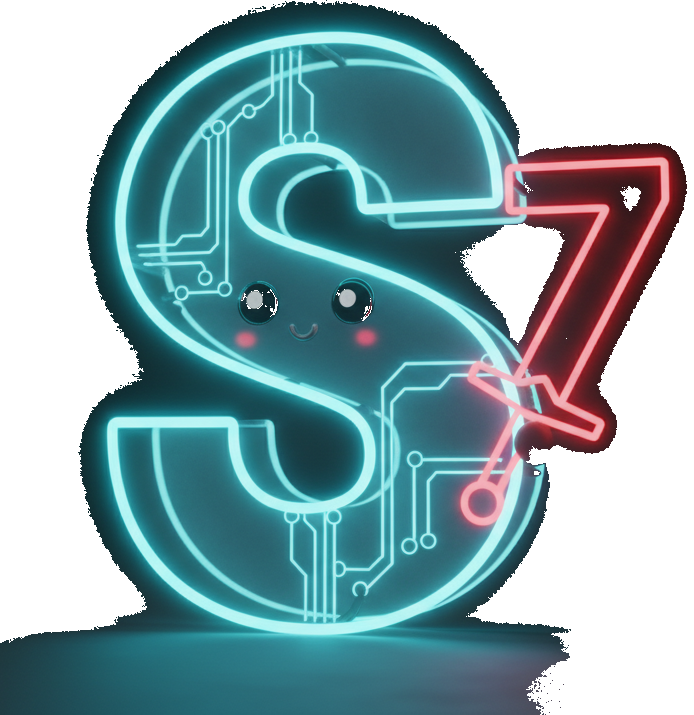
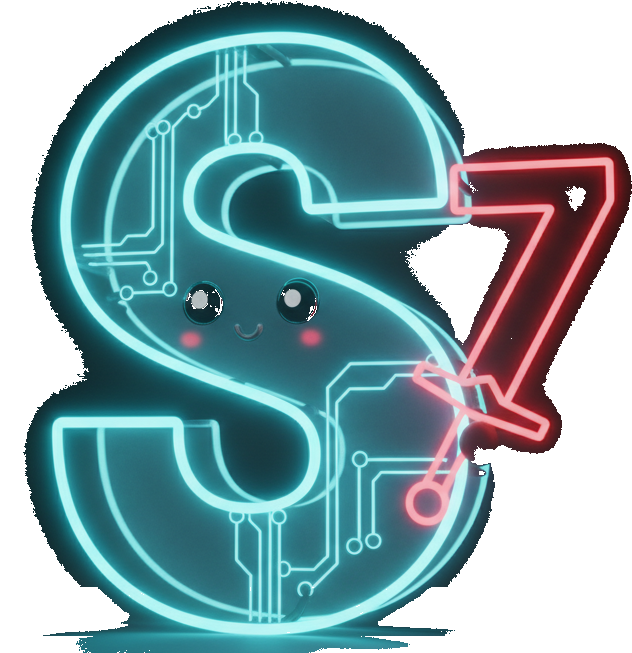
fix(site): trim leftover plate under the sword-S

diff --git a/index.html b/index.html
@@ -63,13 +63,13 @@
       <a class="button button-secondary" href="check">How a recipient checks</a>
     </div>
     <button class="buddy-hit buddy-hero" type="button" data-buddy aria-label="Play a random Signet7 trick">
-      <img src="assets/mascot-s7-cut.png?v=sword" width="694" height="715" alt="S, the Signet7 mascot, with a red 7 sword">
+      <img src="assets/mascot-s7-cut.png?v=sword2" width="632" height="653" alt="S, the Signet7 mascot, with a red 7 sword">
       <span class="buddy-hint">click me</span>
     </button>
   </section>
 
   <button class="buddy-hit buddy-dock" type="button" data-buddy-dock hidden aria-label="Play a random Signet7 trick">
-    <img src="assets/mascot-s7-cut.png?v=sword" width="694" height="715" alt="">
+    <img src="assets/mascot-s7-cut.png?v=sword2" width="632" height="653" alt="">
     <span class="buddy-hint">click me</span>
   </button>
 
